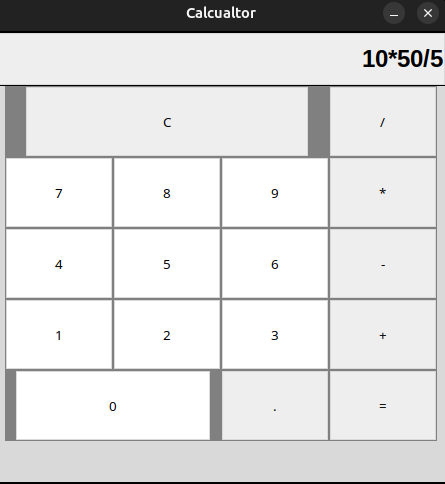
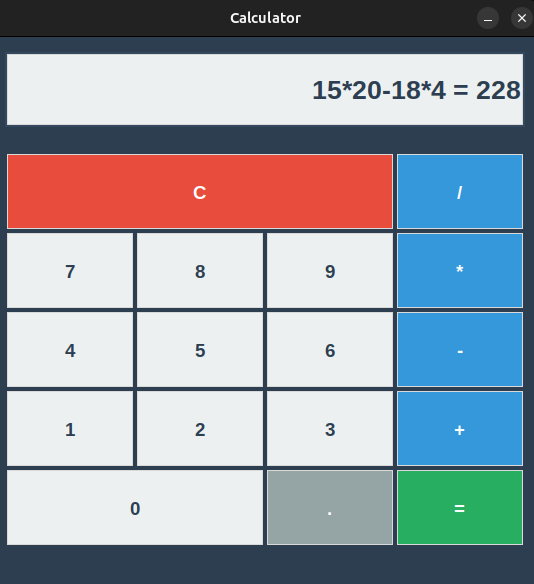
edited the Calculator GUI version

diff --git a/3-Calculator (GUI)/TK_calculator.py b/3-Calculator (GUI)/TK_calculator.py
@@ -1,92 +1,153 @@
 from tkinter import *
 
+
+"""---------------------------------Creating the Window-----------------------------------"""
 # Let's create the Tkinter window
 window = Tk()
-
 # Then, you will define the size of the window in width(312) and height(324) using the 'geometry' method
-window.geometry("450x450")
-
+window.geometry("550x550")
 # In order to prevent the window from getting resized you will call 'resizable' method on the window
 window.resizable(0, 0)
-
 #Finally, define the title of the window
-window.title("Calcualtor")
+window.title("Calculator")
+window.configure(bg="#2C3E50")
 
+"""---------------------------------The Main Fuctions ----------------------------------"""
 
-# Let's now define the required functions for the Calculator to function properly.
-
-# 1. First is the button click 'btn_click' function which will continuously update the input field whenever a number is entered or any button is pressed it will act as a button click update.
-def btn_click(item):
+expression = ""
+# 1.continuously update the input field whenever a number is entered or any button is pressed.
+def clicked_button(item):
     global expression
     expression = expression + str(item)
     input_text.set(expression)
 
-# 2. Second is the button clear 'btn_clear' function clears the input field or previous calculations using the button "C"
-def btn_clear():
+# 2.clears the input field or previous calculations using the button "C"
+def clear_button():
     global expression
     expression = ""
     input_text.set("")
 
-# 3. Third and the final function is button equal ("=") 'btn_equal' function which will calculate the expression present in input field. For example: User clicks button 2, + and 3 then clicks "=" will result in an output 5.
-def btn_equal():
+# 3.calculate the expression present in input field.
+def equal_button():
     global expression
     result = str(eval(expression)) # 'eval' function is used for evaluating the string expressions directly
-    # you can also implement your own function to evalute the expression istead of 'eval' function
-    input_text.set(result)
+    input_text.set(f"{expression} = {result}")
     expression = ""
 
-expression = ""
-# In order to get the instance of the input field 'StringVar()' is used
+"""---------------------------------Input,Output Display Frame -------------------------------------"""
+
+# creates a variable that automatically updates the input field And set the GUI for The input and output display 
 input_text = StringVar()
-
-# Once all the functions are defined then comes the main section where you will start defining the structure of the calculator inside the GUI.
-
-# The first thing is to create a frame for the input field
-input_frame = Frame(window, width = 312, height = 50, bd = 0, highlightbackground = "black", highlightcolor = "black", highlightthickness = 1)
-input_frame.pack(side = TOP)
-
-
-# Then you will create an input field inside the 'Frame' that was created in the previous step. Here the digits or the output will be displayed as 'right' aligned
-input_field = Entry(input_frame, font = ('arial', 18, 'bold'), textvariable = input_text, width = 50, bg = "#eee", bd = 0, justify = RIGHT)
+input_frame = Frame(window, width = 312, height = 80, bd = 0, highlightbackground = "#34495E",\
+                     highlightcolor = "#34495E", highlightthickness = 2, bg="#2C3E50")
+input_frame.pack(side = TOP, padx=15, pady=15)
+#creates the text box at the top where input and output appear. 
+input_field = Entry(input_frame, font = ('Arial', 20, 'bold'), textvariable = input_text, width = 50,\
+                     bg = "#ECF0F1", fg="#2C3E50", bd = 0, justify = RIGHT, relief="flat")
 input_field.grid(row = 0, column = 0)
-input_field.pack(ipady = 10) # 'ipady' is an internal padding to increase the height of input field
+input_field.pack(ipady = 18) # 'ipady' increase the height of input field
 
 
-# Once you have the input field defined then you need a separate frame which will incorporate all the buttons inside it below the 'input field'
-btns_frame = Frame(window, width = 312, height = 272.5, bg = "grey")
-btns_frame.pack()
+"""---------------------------------buttons Frame -------------------------------------"""
+#a separate frame which will incorporate all the buttons inside it below the 'input field'
+btns_frame = Frame(window, width = 312, height = 272.5, bg = "#2C3E50")
+btns_frame.pack(padx=10, pady=10)
+
+"""---------------------------------'Clear (C)' and 'Divide (/) buttons -------------------------------------"""
+clear = Button(btns_frame, text = "C", fg = "white", width = 36, height = 3, bd = 0, bg = "#E74C3C", cursor = "hand2",\
+                command = lambda: clear_button(), font=('Arial', 14, 'bold'), relief="flat", activebackground="#C0392B")
+clear.grid(row = 0, column = 0, columnspan = 3, padx = 2, pady = 2)
+
+divide = Button(btns_frame, text = "/", fg = "white", width = 10, height = 3, bd = 0, bg = "#3498DB", cursor = "hand2",\
+                 command = lambda: clicked_button("/"), font=('Arial', 14, 'bold'), relief="flat", activebackground="#2980B9")
+divide.grid(row = 0, column = 3, padx = 2, pady = 2)
 
 
-# The first row will comprise of the buttons 'Clear (C)' and 'Divide (/)'
-clear = Button(btns_frame, text = "C", fg = "black", width = 32, height = 3, bd = 0, bg = "#eee", cursor = "hand2", command = lambda: btn_clear()).grid(row = 0, column = 0, columnspan = 3, padx = 1, pady = 1)
-divide = Button(btns_frame, text = "/", fg = "black", width = 10, height = 3, bd = 0, bg = "#eee", cursor = "hand2", command = lambda: btn_click("/")).grid(row = 0, column = 3, padx = 1, pady = 1)
+"""---------------------------------'7', '8', '9' and 'Multiply (*) buttons -------------------------------------"""
+seven = Button(btns_frame, text = "7", fg = "#2C3E50", width = 10, height = 3, bd = 0, bg = "#ECF0F1", cursor = "hand2",\
+                command = lambda: clicked_button(7), font=('Arial', 14, 'bold'),\
+                      relief="flat", activebackground="#BDC3C7").grid(row = 1, column = 0, padx = 2, pady = 2)
+
+eight = Button(btns_frame, text = "8", fg = "#2C3E50", width = 10, height = 3, bd = 0, bg = "#ECF0F1", cursor = "hand2",\
+                command = lambda: clicked_button(8), font=('Arial', 14, 'bold'),\
+                  relief="flat", activebackground="#BDC3C7").grid(row = 1, column = 1, padx = 2, pady = 2)
+
+nine = Button(btns_frame, text = "9", fg = "#2C3E50", width = 10, height = 3, bd = 0, bg = "#ECF0F1", cursor = "hand2",\
+               command = lambda: clicked_button(9), font=('Arial', 14, 'bold'),\
+                 relief="flat", activebackground="#BDC3C7").grid(row = 1, column = 2, padx = 2, pady = 2)
+
+multiply = Button(btns_frame, text = "*", fg = "white", width = 10, height = 3, bd = 0, bg = "#3498DB", cursor = "hand2",\
+                   command = lambda: clicked_button("*"), font=('Arial', 14, 'bold'),\
+                     relief="flat", activebackground="#2980B9").grid(row = 1, column = 3, padx = 2, pady = 2)
+
+"""---------------------------------'4', '5', '6' and 'Subtract (-) buttons -------------------------------------"""
+
+four = Button(btns_frame, text = "4", fg = "#2C3E50", width = 10, height = 3, bd = 0, bg = "#ECF0F1", cursor = "hand2",\
+               command = lambda: clicked_button(4), font=('Arial', 14, 'bold'),\
+                  relief="flat", activebackground="#BDC3C7").grid(row = 2, column = 0, padx = 2, pady = 2)
+
+five = Button(btns_frame, text = "5", fg = "#2C3E50", width = 10, height = 3, bd = 0, bg = "#ECF0F1", cursor = "hand2",\
+               command = lambda: clicked_button(5), font=('Arial', 14, 'bold'),\
+                  relief="flat", activebackground="#BDC3C7").grid(row = 2, column = 1, padx = 2, pady = 2)
+
+six = Button(btns_frame, text = "6", fg = "#2C3E50", width = 10, height = 3, bd = 0, bg = "#ECF0F1", cursor = "hand2",\
+              command = lambda: clicked_button(6), font=('Arial', 14, 'bold'),\
+                relief="flat", activebackground="#BDC3C7").grid(row = 2, column = 2, padx = 2, pady = 2)
+
+minus = Button(btns_frame, text = "-", fg = "white", width = 10, height = 3, bd = 0, bg = "#3498DB", cursor = "hand2",\
+                command = lambda: clicked_button("-"), font=('Arial', 14, 'bold'),\
+                      relief="flat", activebackground="#2980B9").grid(row = 2, column = 3, padx = 2, pady = 2)
+
+"""---------------------------------'1', '2', '3' and 'Addition (+) buttons -------------------------------------"""
+
+one = Button(btns_frame, text = "1", fg = "#2C3E50", width = 10, height = 3, bd = 0, bg = "#ECF0F1", cursor = "hand2",\
+              command = lambda: clicked_button(1), font=('Arial', 14, 'bold'),\
+                  relief="flat", activebackground="#BDC3C7").grid(row = 3, column = 0, padx = 2, pady = 2)
+
+two = Button(btns_frame, text = "2", fg = "#2C3E50", width = 10, height = 3, bd = 0, bg = "#ECF0F1", cursor = "hand2",\
+              command = lambda: clicked_button(2), font=('Arial', 14, 'bold'),\
+                  relief="flat", activebackground="#BDC3C7").grid(row = 3, column = 1, padx = 2, pady = 2)
+
+three = Button(btns_frame, text = "3", fg = "#2C3E50", width = 10, height = 3, bd = 0, bg = "#ECF0F1", cursor = "hand2",\
+                command = lambda: clicked_button(3), font=('Arial', 14, 'bold'),\
+                      relief="flat", activebackground="#BDC3C7").grid(row = 3, column = 2, padx = 2, pady = 2)
+
+plus = Button(btns_frame, text = "+", fg = "white", width = 10, height = 3, bd = 0, bg = "#3498DB", cursor = "hand2",\
+               command = lambda: clicked_button("+"), font=('Arial', 14, 'bold'),\
+                  relief="flat", activebackground="#2980B9").grid(row = 3, column = 3, padx = 2, pady = 2)
+
+"""---------------------------------'0', 'Decimal (.)', and 'Equal To (=) buttons ------------------------------------"""
+zero = Button(btns_frame, text = "0", fg = "#2C3E50", width = 23, height = 3, bd = 0, bg = "#ECF0F1", cursor = "hand2",\
+               command = lambda: clicked_button(0), font=('Arial', 14, 'bold'),\
+                  relief="flat", activebackground="#BDC3C7").grid(row = 4, column = 0, columnspan = 2, padx = 2, pady = 2)
+
+point = Button(btns_frame, text = ".", fg = "white", width = 10, height = 3, bd = 0, bg = "#95A5A6", cursor = "hand2",\
+                command = lambda: clicked_button("."), font=('Arial', 14, 'bold'),\
+                      relief="flat", activebackground="#7F8C8D").grid(row = 4, column = 2, padx = 2, pady = 2)
+
+equals = Button(btns_frame, text = "=", fg = "white", width = 10, height = 3, bd = 0, bg = "#27AE60", cursor = "hand2",\
+                 command = lambda: equal_button(), font=('Arial', 14, 'bold'),\
+                      relief="flat", activebackground="#229954").grid(row = 4, column = 3, padx = 2, pady = 2)
 
 
-# The second row will comprise of the buttons '7', '8', '9' and 'Multiply (*)'
-seven = Button(btns_frame, text = "7", fg = "black", width = 10, height = 3, bd = 0, bg = "#fff", cursor = "hand2", command = lambda: btn_click(7)).grid(row = 1, column = 0, padx = 1, pady = 1)
-eight = Button(btns_frame, text = "8", fg = "black", width = 10, height = 3, bd = 0, bg = "#fff", cursor = "hand2", command = lambda: btn_click(8)).grid(row = 1, column = 1, padx = 1, pady = 1)
-nine = Button(btns_frame, text = "9", fg = "black", width = 10, height = 3, bd = 0, bg = "#fff", cursor = "hand2", command = lambda: btn_click(9)).grid(row = 1, column = 2, padx = 1, pady = 1)
-multiply = Button(btns_frame, text = "*", fg = "black", width = 10, height = 3, bd = 0, bg = "#eee", cursor = "hand2", command = lambda: btn_click("*")).grid(row = 1, column = 3, padx = 1, pady = 1)
-
-
-# The third row will comprise of the buttons '4', '5', '6' and 'Subtract (-)'
-four = Button(btns_frame, text = "4", fg = "black", width = 10, height = 3, bd = 0, bg = "#fff", cursor = "hand2", command = lambda: btn_click(4)).grid(row = 2, column = 0, padx = 1, pady = 1)
-five = Button(btns_frame, text = "5", fg = "black", width = 10, height = 3, bd = 0, bg = "#fff", cursor = "hand2", command = lambda: btn_click(5)).grid(row = 2, column = 1, padx = 1, pady = 1)
-six = Button(btns_frame, text = "6", fg = "black", width = 10, height = 3, bd = 0, bg = "#fff", cursor = "hand2", command = lambda: btn_click(6)).grid(row = 2, column = 2, padx = 1, pady = 1)
-minus = Button(btns_frame, text = "-", fg = "black", width = 10, height = 3, bd = 0, bg = "#eee", cursor = "hand2", command = lambda: btn_click("-")).grid(row = 2, column = 3, padx = 1, pady = 1)
-
-
-# The fourth row will comprise of the buttons '1', '2', '3' and 'Addition (+)'
-one = Button(btns_frame, text = "1", fg = "black", width = 10, height = 3, bd = 0, bg = "#fff", cursor = "hand2", command = lambda: btn_click(1)).grid(row = 3, column = 0, padx = 1, pady = 1)
-two = Button(btns_frame, text = "2", fg = "black", width = 10, height = 3, bd = 0, bg = "#fff", cursor = "hand2", command = lambda: btn_click(2)).grid(row = 3, column = 1, padx = 1, pady = 1)
-three = Button(btns_frame, text = "3", fg = "black", width = 10, height = 3, bd = 0, bg = "#fff", cursor = "hand2", command = lambda: btn_click(3)).grid(row = 3, column = 2, padx = 1, pady = 1)
-plus = Button(btns_frame, text = "+", fg = "black", width = 10, height = 3, bd = 0, bg = "#eee", cursor = "hand2", command = lambda: btn_click("+")).grid(row = 3, column = 3, padx = 1, pady = 1)
-
-
-# Finally, the fifth row will comprise of the buttons '0', 'Decimal (.)', and 'Equal To (=)'
-zero = Button(btns_frame, text = "0", fg = "black", width = 21, height = 3, bd = 0, bg = "#fff", cursor = "hand2", command = lambda: btn_click(0)).grid(row = 4, column = 0, columnspan = 2, padx = 1, pady = 1)
-point = Button(btns_frame, text = ".", fg = "black", width = 10, height = 3, bd = 0, bg = "#eee", cursor = "hand2", command = lambda: btn_click(".")).grid(row = 4, column = 2, padx = 1, pady = 1)
-equals = Button(btns_frame, text = "=", fg = "black", width = 10, height = 3, bd = 0, bg = "#eee", cursor = "hand2", command = lambda: btn_equal()).grid(row = 4, column = 3, padx = 1, pady = 1)
-
-
+#Tkinter event loop — the GUI keeps running and waiting for user interaction
 window.mainloop()
+
+
+"""
+| Concept                      | Explanation                                   |
+| ---------------------------- | --------------------------------------------- |
+| **Tkinter**                  | Python GUI toolkit                            |
+| **Frame**                    | Container for grouping widgets                |
+| **Entry**                    | Text box for input/output                     |
+| **Button**                   | Clickable widget with command                 |
+| **StringVar**                | Special variable that updates widgets         |
+| **Grid**                     | Layout system for positioning widgets         |
+| **Event-driven programming** | Functions respond to user actions like clicks |
+| **eval()**                   | Evaluates string expressions as Python code   |
+| **lambda**                   | Creates small anonymous functions             |
+| **relief**                   | Button border style                           |
+| **ipady**                    | Increases internal padding of widgets         |
+| **cursor**                   | Changes mouse cursor appearance               |
+--------------------------------------------------------------------------------\
+"""
